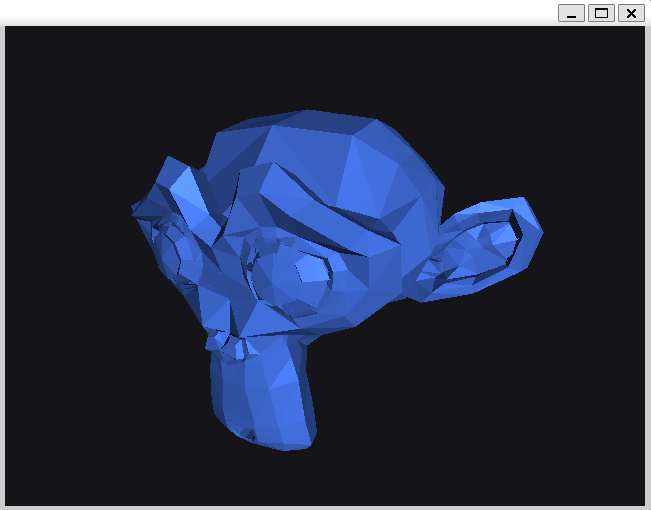
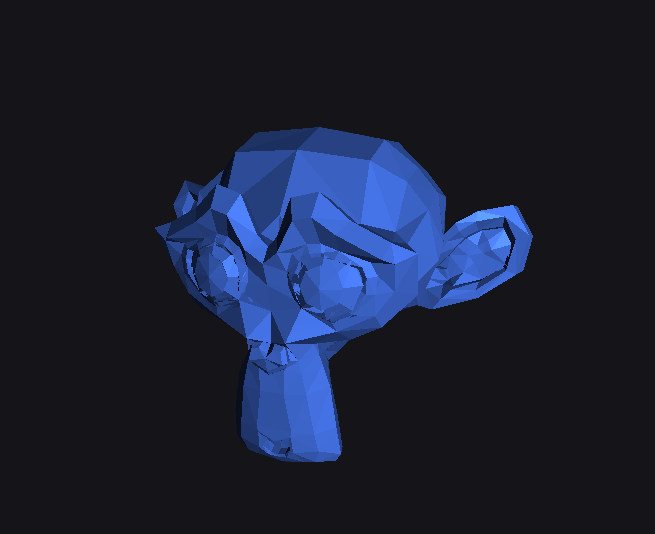
some resolution changes.

Changed region(s): [[0.1843, 0.2059, 0.6759, 0.8824], [0.0, 0.0, 1.0, 1.0], [0.6144, 0.3824, 0.8295, 0.5882]]

diff --git a/cpp-folders/src/hello-3d-primitives/hello_pipeline_oren_nayar_shading.cpp b/cpp-folders/src/hello-3d-primitives/hello_pipeline_oren_nayar_shading.cpp
@@ -20,12 +20,12 @@
 
 #include "shs_renderer.hpp"
 
-#define WINDOW_WIDTH      640
-#define WINDOW_HEIGHT     480
-#define CANVAS_WIDTH      640
-#define CANVAS_HEIGHT     480
+#define WINDOW_WIDTH      1240
+#define WINDOW_HEIGHT     980
+#define CANVAS_WIDTH      1240
+#define CANVAS_HEIGHT     980
 #define MOUSE_SENSITIVITY 0.2f
-#define THREAD_COUNT      12
+#define THREAD_COUNT      20
 #define TILE_SIZE_X       80
 #define TILE_SIZE_Y       80
 #define PI                3.14159265359f

diff --git a/cpp-folders/src/hello-3d-primitives/hello_pipeline_normal_zbuffer_debug.cpp b/cpp-folders/src/hello-3d-primitives/hello_pipeline_normal_zbuffer_debug.cpp
@@ -21,12 +21,12 @@
 
 #include "shs_renderer.hpp"
 
-#define WINDOW_WIDTH      940
-#define WINDOW_HEIGHT     280
-#define CANVAS_WIDTH      940
-#define CANVAS_HEIGHT     280
+#define WINDOW_WIDTH      1680
+#define WINDOW_HEIGHT     480
+#define CANVAS_WIDTH      1240
+#define CANVAS_HEIGHT     480
 #define MOUSE_SENSITIVITY 0.2f
-#define THREAD_COUNT      12
+#define THREAD_COUNT      20
 #define TILE_SIZE_X       100
 #define TILE_SIZE_Y       100
 

diff --git a/cpp-folders/src/hello-3d-primitives/hello_pipeline_blinn_phong_shading.cpp b/cpp-folders/src/hello-3d-primitives/hello_pipeline_blinn_phong_shading.cpp
@@ -20,12 +20,12 @@
 
 #include "shs_renderer.hpp"
 
-#define WINDOW_WIDTH      640
-#define WINDOW_HEIGHT     480
-#define CANVAS_WIDTH      640
-#define CANVAS_HEIGHT     480
+#define WINDOW_WIDTH      1240
+#define WINDOW_HEIGHT     980
+#define CANVAS_WIDTH      1240
+#define CANVAS_HEIGHT     980
 #define MOUSE_SENSITIVITY 0.2f
-#define THREAD_COUNT      12
+#define THREAD_COUNT      20
 #define TILE_SIZE_X       80
 #define TILE_SIZE_Y       80
 

diff --git a/cpp-folders/src/hello-3d-primitives/hello_pipeline_toon_shading.cpp b/cpp-folders/src/hello-3d-primitives/hello_pipeline_toon_shading.cpp
@@ -20,12 +20,12 @@
 
 #include "shs_renderer.hpp"
 
-#define WINDOW_WIDTH      640
-#define WINDOW_HEIGHT     480
-#define CANVAS_WIDTH      640
-#define CANVAS_HEIGHT     480
+#define WINDOW_WIDTH      1240
+#define WINDOW_HEIGHT     980
+#define CANVAS_WIDTH      1240
+#define CANVAS_HEIGHT     980
 #define MOUSE_SENSITIVITY 0.2f
-#define THREAD_COUNT      12
+#define THREAD_COUNT      20
 #define TILE_SIZE_X       80
 #define TILE_SIZE_Y       80
 

diff --git a/cpp-folders/src/hello-3d-primitives/hello_pipeline_flat_shading.cpp b/cpp-folders/src/hello-3d-primitives/hello_pipeline_flat_shading.cpp
@@ -18,11 +18,11 @@
 
 #include "shs_renderer.hpp"
 
-#define WINDOW_WIDTH      640
-#define WINDOW_HEIGHT     480
-#define CANVAS_WIDTH      640
-#define CANVAS_HEIGHT     480
-#define THREAD_COUNT      16
+#define WINDOW_WIDTH      1240
+#define WINDOW_HEIGHT     980
+#define CANVAS_WIDTH      1240
+#define CANVAS_HEIGHT     980
+#define THREAD_COUNT      20
 #define TILE_SIZE_X       80
 #define TILE_SIZE_Y       80
 

diff --git a/cpp-folders/src/hello-3d-primitives/hello_pipeline_phong_shading.cpp b/cpp-folders/src/hello-3d-primitives/hello_pipeline_phong_shading.cpp
@@ -20,11 +20,11 @@
 
 #include "shs_renderer.hpp"
 
-#define WINDOW_WIDTH      640
-#define WINDOW_HEIGHT     480
-#define CANVAS_WIDTH      640
-#define CANVAS_HEIGHT     480
-#define THREAD_COUNT      12
+#define WINDOW_WIDTH      1240
+#define WINDOW_HEIGHT     980
+#define CANVAS_WIDTH      1240
+#define CANVAS_HEIGHT     980
+#define THREAD_COUNT      20
 #define TILE_SIZE_X       80
 #define TILE_SIZE_Y       80
 

diff --git a/README.md b/README.md
@@ -161,9 +161,9 @@
       
 # Result
 <p><img width="320" height="320" src="https://raw.githubusercontent.com/sharavsambuu/leisure-software-renderer/master/images/hello_wireframe_monkeyobj_canvas.png"></p>
-<p><img width="650" height="510" src="https://raw.githubusercontent.com/sharavsambuu/leisure-software-renderer/master/images/monkey-blinn-phong.png"></p>
-<p><img width="630" height="470" src="https://raw.githubusercontent.com/sharavsambuu/leisure-software-renderer/master/images/monkey-toon-shading.png"></p>
-<p><img width="950" height="310" src="https://raw.githubusercontent.com/sharavsambuu/leisure-software-renderer/master/images/normal_zbuffer_debug.png"></p>
+<p><img width="655" height="534" src="https://raw.githubusercontent.com/sharavsambuu/leisure-software-renderer/master/images/monkey-blinn-phong.png"></p>
+<p><img width="688" height="511" src="https://raw.githubusercontent.com/sharavsambuu/leisure-software-renderer/master/images/monkey-toon-shading.png"></p>
+<p><img width="1677" height="477" src="https://raw.githubusercontent.com/sharavsambuu/leisure-software-renderer/master/images/normal_zbuffer_debug.png"></p>
 <p><img width="640" height="360" src="https://raw.githubusercontent.com/sharavsambuu/leisure-software-renderer/master/images/mongolian-flag.png"></p>
 <p><img width="320" height="320" src="https://raw.githubusercontent.com/sharavsambuu/leisure-software-renderer/master/images/fbm.png"></p>
 
